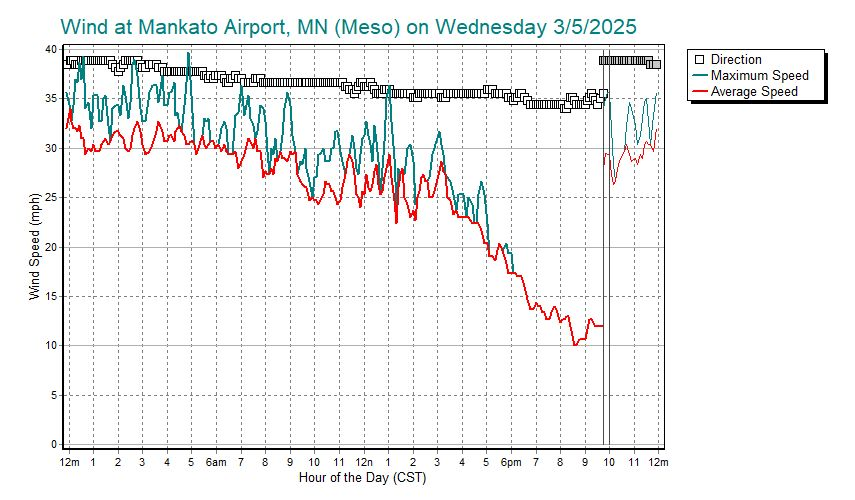
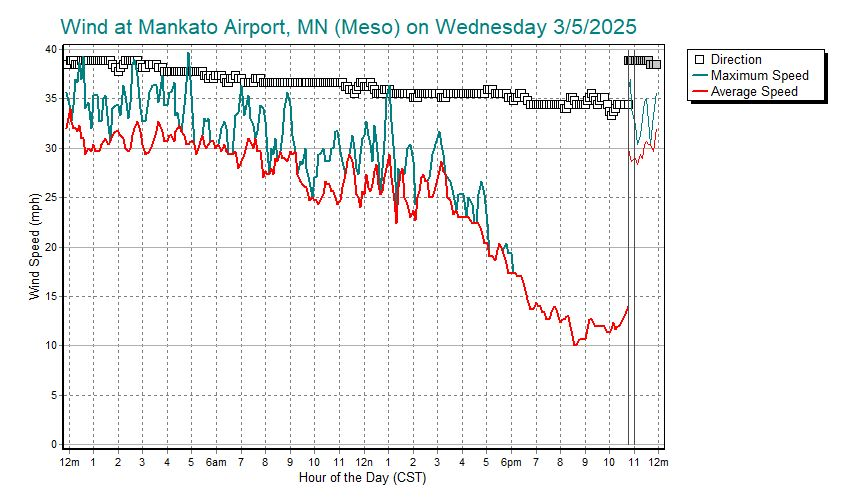
another update

Changed region(s): [[0.6994, 0.09, 0.7602, 0.39], [0.6994, 0.63, 0.7298, 0.69], [0.7298, 0.6, 0.7602, 0.63]]

diff --git a/charts.html b/charts.html
@@ -88,7 +88,7 @@
 	<p><b><font face="Arial" size="5">Samples from Rosy.asp</font></b></p>
    </div>
    <p><span>
-(24-hour charts updated Wednesday, March 05, 2025 at 10:00PM Central).
+(24-hour charts updated Wednesday, March 05, 2025 at 11:00PM Central).
    </span></p>
    <p>The orginal ASP page is named Rosy, a nickname windsurfers from the Tri-Cities gave Roosevelt, a sailing site on the east end of the Columbia River gorge.</p>
 	<p>This first pair of sample charts, wind and temperature, is updated every 

diff --git a/charts_input.html b/charts_input.html
@@ -88,7 +88,7 @@
 	<p><b><font face="Arial" size="5">Samples from Rosy.asp</font></b></p>
    </div>
    <p><span>
-(24-hour charts updated Wednesday, March 05, 2025 at 10:00PM Central).
+(24-hour charts updated Wednesday, March 05, 2025 at 11:00PM Central).
    </span></p>
    <p>The orginal ASP page is named Rosy, a nickname windsurfers from the Tri-Cities gave Roosevelt, a sailing site on the east end of the Columbia River gorge.</p>
 	<p>This first pair of sample charts, wind and temperature, is updated every 
